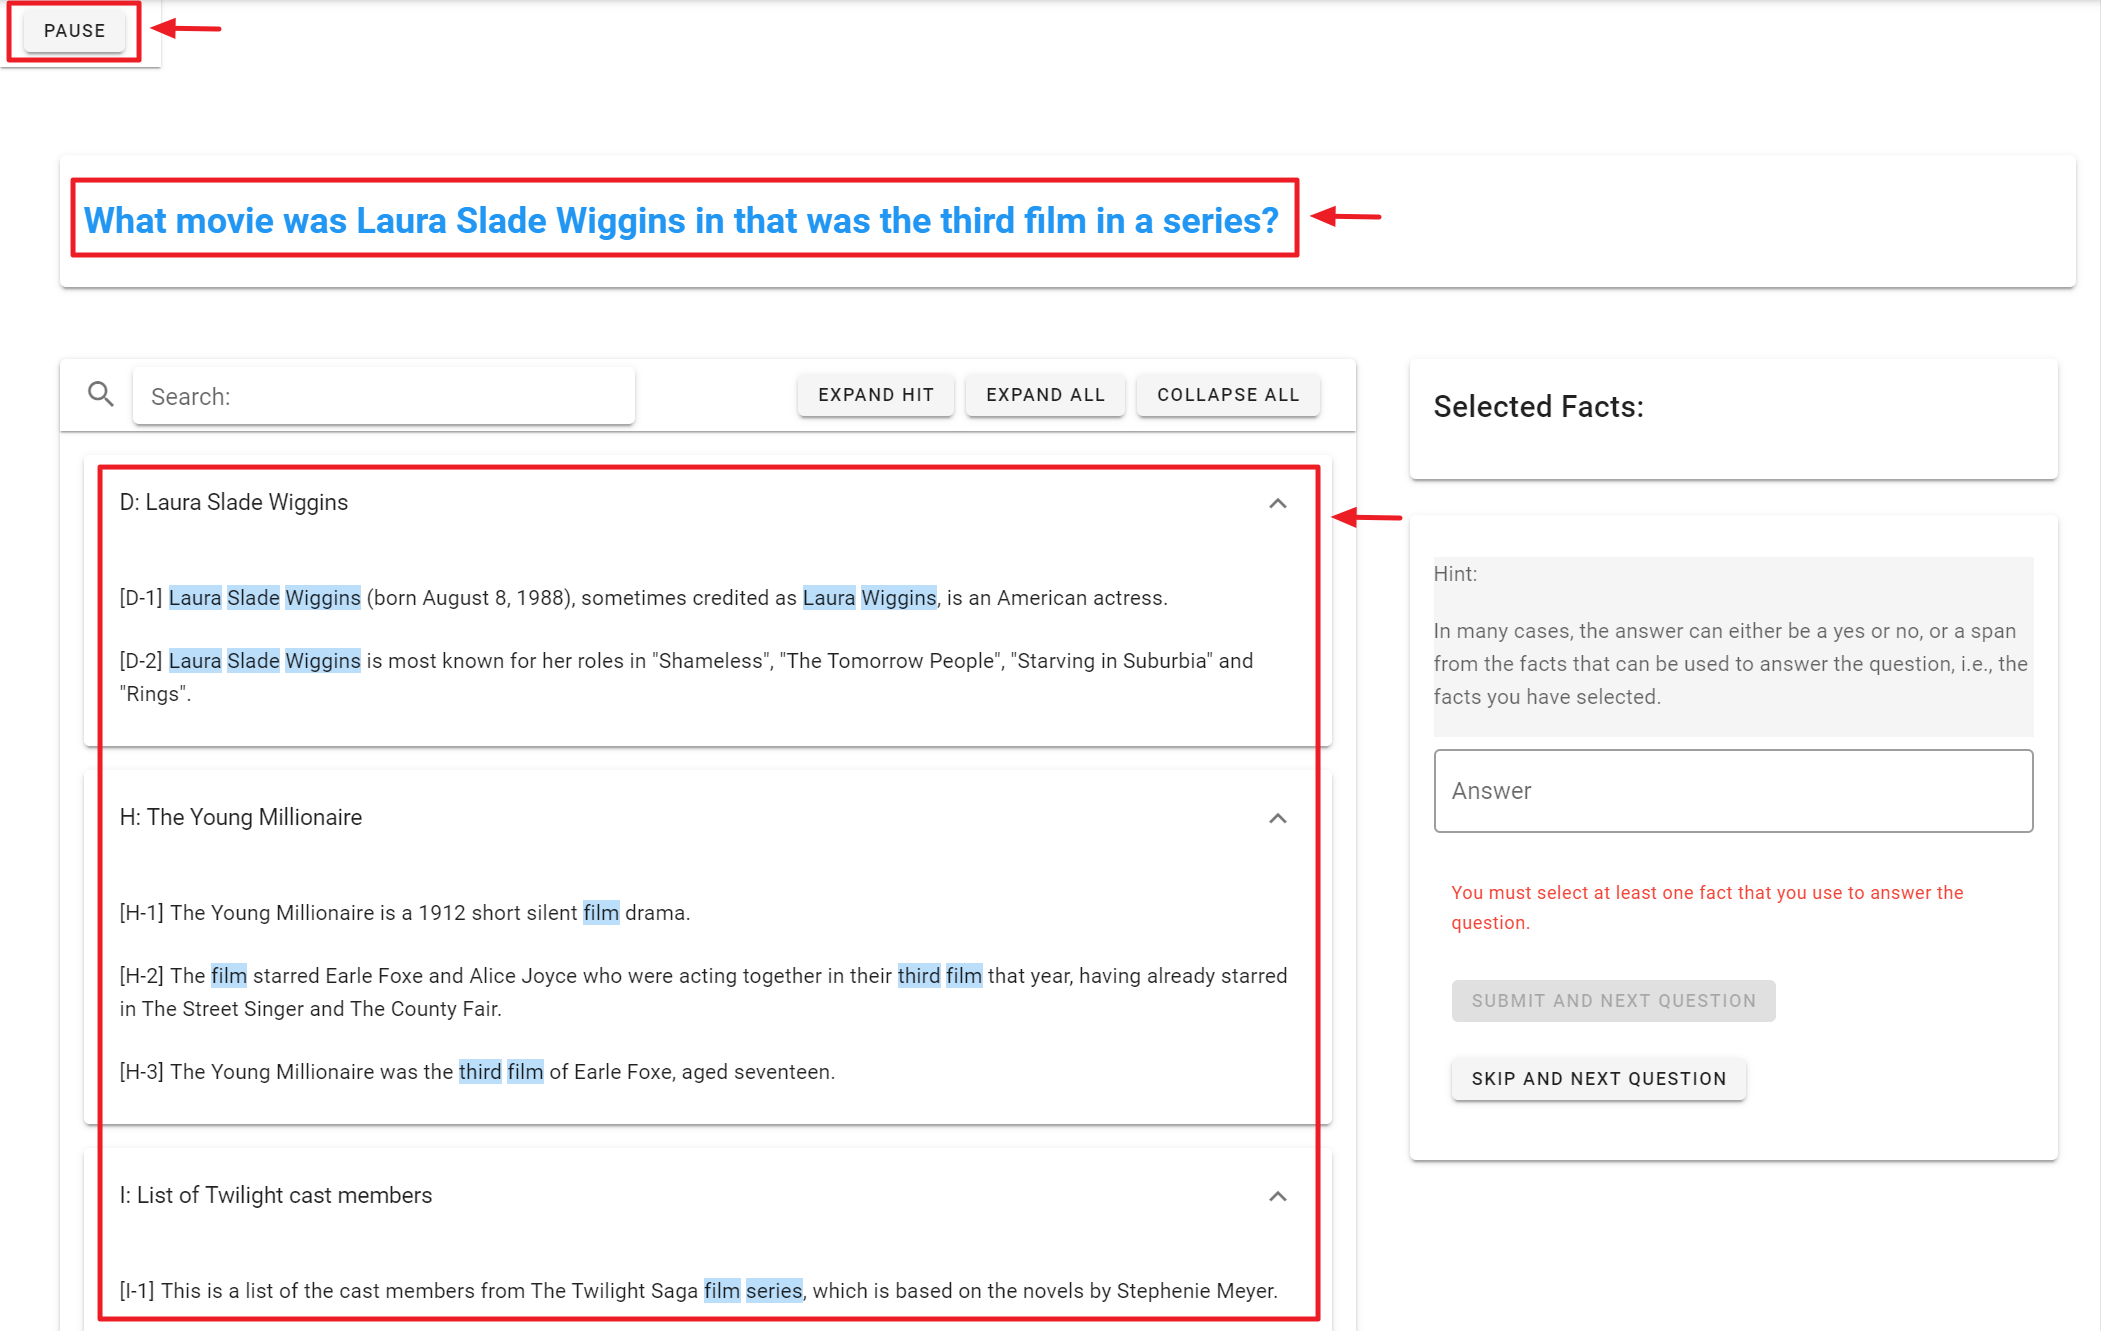
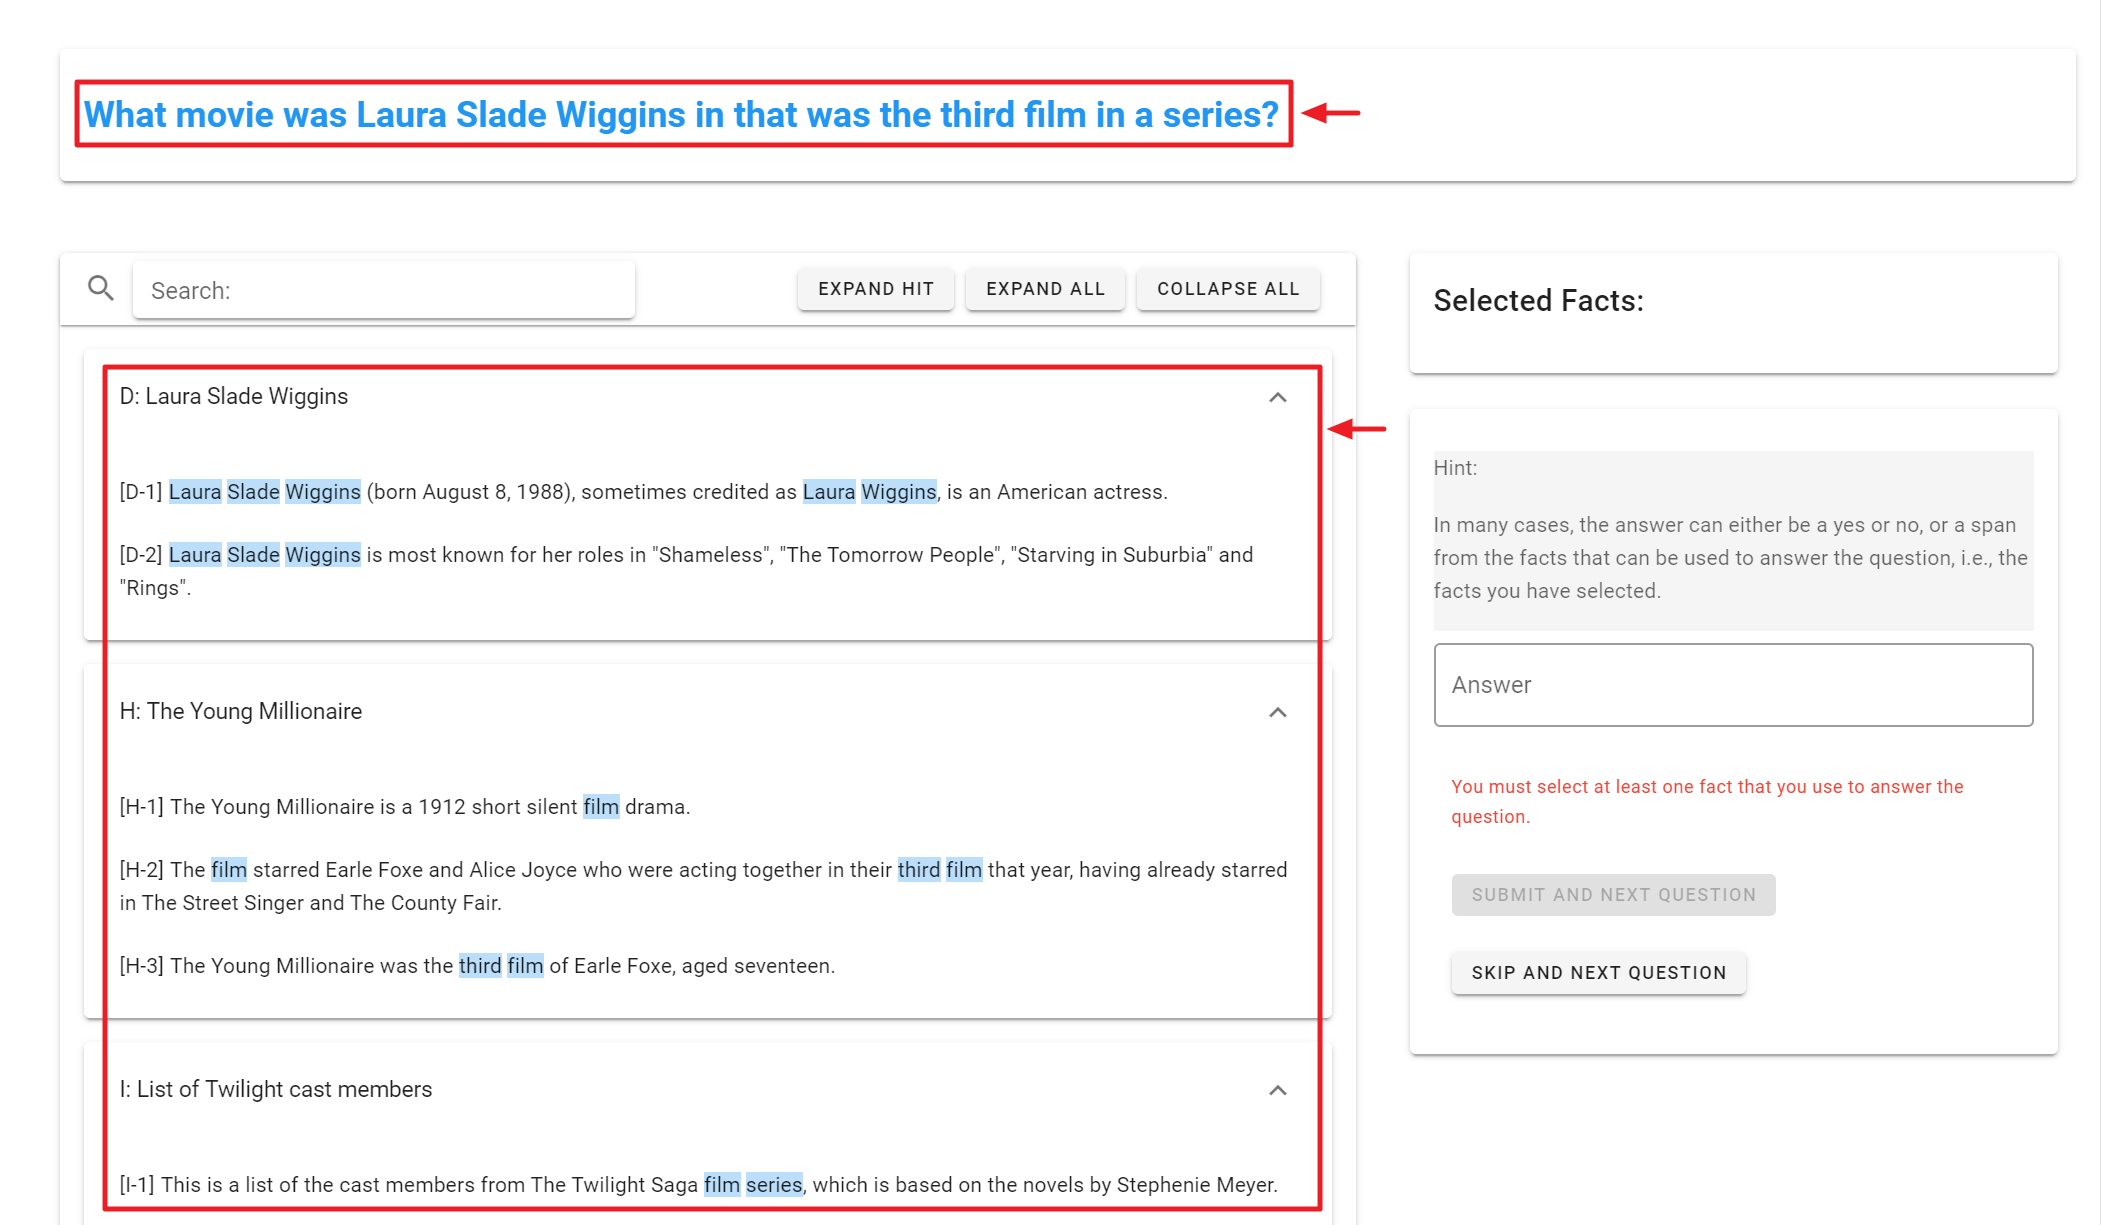
josh comments

diff --git a/src/views/Consent.vue b/src/views/Consent.vue
@@ -1,23 +1,20 @@
 <template>
   <v-card class="ma-auto" max-width="800">
-    <v-card-title>Instructions</v-card-title>
-    <v-card-subtitle class="text-h6">Welcome!</v-card-subtitle>
+    <v-card-title>Welcome!</v-card-title>
     <v-card-text class="text-body-1">
       <div>
         <p>
-          <span class="strong-1">You are being asked to participate in a research study</span>. Your participation in this research study is voluntary and you do not have to participate. Please consider the following information carefully and check the consent box before continuing.
+          <span class="strong-1">You are being asked to participate in a research study</span>. The purpose of this study is to determine effective visualization techniques for interfacing with
+          <span
+            class="strong-1"
+          >Question Answering (QA)</span> systems. Please consider the following information carefully and check the consent box before continuing.
         </p>
+        <p class="text-h6 mt-5">Disclosures:</p>
         <ul>
-          <li>
-            The purpose of this study is to determine effective visualization techniques for interfacing with
-            <span
-              class="strong-1"
-            >Question Answering (QA)</span> systems.
-          </li>
           <li>You have to be at least 18 years old to participate in this study.</li>
           <li>
             This study will take about
-            <span class="strong-1">60 minutes</span> to complete.
+            <span class="strong-1">30 minutes</span> to complete.
           </li>
           <li>You can stop participation at any time and for any reason by simply closing this window or navigating to another site. If you choose to end participation before submitting the survey, none of your responses will be recorded.</li>
           <li>Pressing the "Back" button during the session will restart the study.</li>
@@ -29,6 +26,9 @@
           </li>
           <li>There are no expected risks to you as a result of participating in this study beyond those experienced in everyday life.</li>
           <li>You will not benefit directly from participating in this study. This study does not offer compensation to participants.</li>
+        </ul>
+        <p class="text-h6 mt-5">About the Study:</p>
+        <ul>
           <li>
             You will be presented with a visual interface for QA. You will be given a
             <span
@@ -41,10 +41,13 @@
             <span class="strong-2">{{ "and " }}</span>
             <span class="strong-1">identify the facts</span> that are used to explain why the answer is correct.
           </li>
-          <li>You will first be shown instructions for the study. The instructions will provide background on the task to be completed, a description of the dataset that you will interact with, a description of the visualization tools that you will use, and information on the workflow for completing the task. The instructions will end with a set of demonstrative tasks that you will need to complete, in order to provide initial hands-on experience with using the visual interface.</li>
+          <li>You will first be shown instructions for the study. The instructions will provide a description of the dataset that you will interact with, a description of the visualization tools that you will use, and information on the workflow for completing the task. The instructions will end with a set of demonstrative tasks that you will need to complete, in order to provide initial hands-on experience with using the visual interface.</li>
           <li>After the instructions, you will then be provided with a different visual interface. The task remains the same, and you will need to complete another set of tasks using the new interface. We will time your process and record your operations (search, scroll, click, type, etc.) with the interface. Try to make use of the tools we provided with the interfaces and complete the tasks as quickly and as accurately as possible.</li>
           <li>Last, you will be asked to answer a few questions regarding the interfaces you have just used, in order for us to obtain your general thoughts on the study, and assess the difficulty of the study and your overall experience in using the particular visual interface.</li>
           <li>The data resulting from your participation, namely your answers and interactions with both interfaces, will be stored for future research.</li>
+        </ul>
+        <p class="text-h6 mt-5">Contact:</p>
+        <ul>
           <li>
             For questions, concerns, or complaints about the study you may contact Joshua Levine at
             <a
@@ -110,7 +113,6 @@ export default class Consent extends Vue {
           return;
         }
         const newUserResponse = response.data.data as NewUserResponse;
-        console.log(newUserResponse);
         this.$store.commit("setUser", newUserResponse.user);
         this.$store.commit("setContexted", newUserResponse.contexted);
         this.$store.commit(

diff --git a/src/views/Questionnaire.vue b/src/views/Questionnaire.vue
@@ -64,7 +64,16 @@
     </v-card-text>
     <v-card-actions>
       <v-spacer />
-      <v-btn @click="submit" :disabled="!allValid">Submit</v-btn>
+      <v-btn @click.stop="submit" :disabled="!allValid">Submit</v-btn>
+      <v-dialog v-model="dialog" width="500" persistent>
+        <v-card>
+          <v-card-title>Thank you for taking this study!</v-card-title>
+          <v-card-actions>
+            <v-spacer></v-spacer>
+            <v-btn text @click="backToConsent">DONE</v-btn>
+          </v-card-actions>
+        </v-card>
+      </v-dialog>
     </v-card-actions>
   </v-card>
 </template>
@@ -96,9 +105,11 @@ export default class Questionnaire extends Vue {
     "Which interface made it most easy to identify answers?",
     "In the first interface (grouped by topic), how confident were you in providing answer?",
     "In the second interface (ranked individual sentences), how confident were you in providing answer?",
-    "What characteristics of the interface did you find to be most useful? (Maximum 150 characters.)",
-    "What characteristics of the interface did you find to be least useful? (Maximum 150 characters.)",
-    "Use this box to leave any additional comments about the experiment (Maximum 150 characters.)",
+    "For the first interface (grouped by topic), what characteristics of the interface did you find to be most useful?",
+    "For the second interface (ranked individual sentences), what characteristics of the interface did you find to be most useful?",
+    "For the first interface (grouped by topic), what characteristics of the interface did you find to be least useful? ",
+    "For the second interface (ranked individual sentences), what characteristics of the interface did you find to be least useful?",
+    "Use this box to leave any additional comments about the experiment.",
   ];
   questionType = {
     0: "expert",
@@ -115,6 +126,8 @@ export default class Questionnaire extends Vue {
     11: "free",
     12: "free",
     13: "free",
+    14: "free",
+    15: "free",
   };
   questionRequired = {
     0: true,
@@ -127,21 +140,24 @@ export default class Questionnaire extends Vue {
     7: true,
     8: true,
     9: true,
-    10: true,
-    11: true,
-    12: true,
+    10: false,
+    11: false,
+    12: false,
     13: false,
+    14: false,
+    15: false,
   };
   radioRules = [(v: string) => !!v || "This question is required."];
   textRules = [
-    (v: string) => !v || (v && v.length <= 150) || "Max 150 characters",
+    (v: string) => !v || (v && v.length <= 5000) || "Max 5000 characters",
   ];
   textRulesRequired = [
     (v: string) => !!v || "This question is required.",
-    (v: string) => (v && v.length <= 150) || "Max 150 characters",
+    (v: string) => (v && v.length <= 5000) || "Max 5000 characters",
   ];
   result = [] as string[];
   valid = [] as boolean[];
+  dialog = false;
   get allValid() {
     let valid = true;
     for (let i = 0; i < this.questions.length; i++) {
@@ -192,10 +208,14 @@ export default class Questionnaire extends Vue {
     axios.post(process.env.VUE_APP_API_URL + "/answer", submitData).then(
       function (this: Questionnaire, response: AxiosResponse) {
         if (response.data.success == "true") {
-          this.$router.replace({ name: "consent" });
+          this.dialog = true;
+          // this.$router.replace({ name: "consent" });
         }
       }.bind(this)
     );
+  }
+  backToConsent() {
+    this.$router.replace({ name: "consent" });
   }
 }
 </script>

diff --git a/src/views/Instruction.vue b/src/views/Instruction.vue
@@ -32,7 +32,6 @@
       <div v-if="page == 2">
         <p>Here is an overview of the interface. At the top is the question, and the facts are listed below grouped by topic.</p>
         <p>Each topic is tagged with a capital letter, and each fact is tagged by their topic as well as its number within the topic.</p>
-        <p>You can pause the process by clicking on the "PAUSE" button on the top left corner.</p>
         <p>
           In the facts, all words that appear in the question will have a
           <span class="question">blue</span> background.
@@ -94,10 +93,8 @@
           >highlighted</span> within the facts. In fact, for most questions, the answer is either a
           <span
             class="strong-1"
-          >yes or no</span>, or a span from the facts that you use to answer the question, that is,
-          <span
-            class="strong-1"
-          >a span from the facts that you select</span>.
+          >yes or no</span>, or
+          <span class="strong-1">a span of text taken from the facts</span> that you use to answer the question (the facts that you select). For example, the answer “Rings” is a span of text from both Fact D-2 and G-2 (highlighted).
         </p>
         <p>
           Finally, after selecting all the supporting facts and typing in the answer, we click
@@ -119,11 +116,13 @@
       </div>
       <div v-if="page == 8">
         <p>Now that you have familiar yourself with the task and the interface, try to answer the next 10 questions as quickly and as accurately as possible. For these questions, we will time your process and record your operations (search, scroll, click, type, etc.) with the interface.</p>
+        <p>You can pause the process by clicking on the "PAUSE" button on the top left corner.</p>
         <p class="red--text darken-3">
           Note: You will
           <span class="font-weight-bold font-italic">not</span> be able to go back to the instructions once you hit "START".
         </p>
         <p>If you are still not ready, click the "BACK" button to start over the instructions.</p>
+        <v-img src="../img/pause.png" contain max-width="100%"></v-img>
       </div>
       <div v-if="page == 9">
         <p>Now try 10 more questions with a different interface.</p>
@@ -267,7 +266,7 @@ export default class Instruction extends Vue {
   get subtitle() {
     switch (this.page) {
       case 1:
-        return "Welcome!";
+        return "";
       case 2:
         return "Overview";
       case 3:

diff --git a/src/components/CollectorAnswer.vue b/src/components/CollectorAnswer.vue
@@ -4,7 +4,7 @@
       <v-container>
         <v-row class="grey lighten-4 mb-2">
           <p>Hint:</p>
-          <p>In many cases, the answer can either be a yes or no, or a span from the facts that can be used to answer the question, i.e., the facts you have selected.</p>
+          <p>In many cases, the answer can either be a yes or no, or a span of text taken from the facts that can be used to answer the question, i.e., the facts you have selected.</p>
         </v-row>
         <v-form v-model="answerValid" ref="answerForm">
           <v-row>
@@ -81,7 +81,10 @@ import CollectorModel from "@/CollectorModel";
 export default class CollectorAnswer extends Vue {
   dialog = false;
   answerValid = false;
-  answerRule = [(v: string) => !!v || "Answer cannot be empty."];
+  answerRule = [
+    (v: string) => !!v || "Answer cannot be empty.",
+    (v: string) => (v && v.length <= 5000) || "Max 5000 characters",
+  ];
 
   get valid() {
     return this.state.selectedFactsArray.length > 0;
